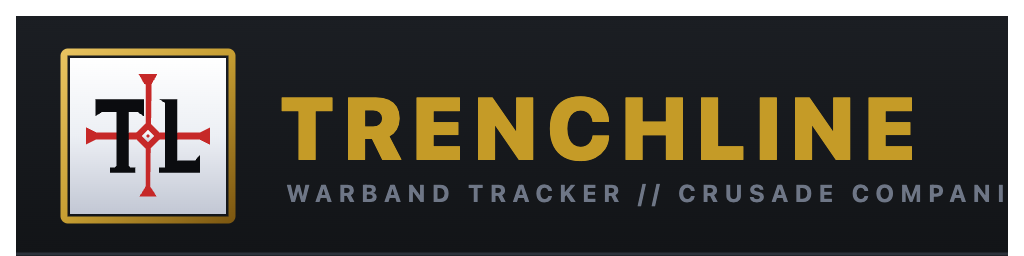
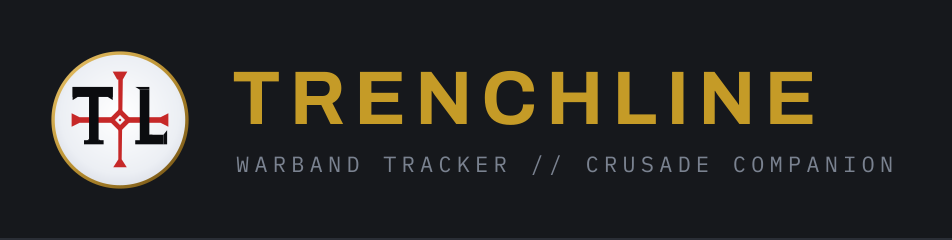
Redraw the brand lockup flat, and stop keeping two copies of the mark
The delivered banner was drawn with a burnished-gold rim gradient, a
steel-plate gradient behind the mark, `rx="2"` corners and a system-sans
900 wordmark. All four are things this app removes — `globals.css` strips
every radius and shadow, the design has one border weight and no simulated
depth, and the wordmark face is Archivo everywhere else. As a raster it
rendered unchanged, which is how it survived this long. The designer
flagged it as wanting a redraw before it appeared anywhere else; it had
just become the README's hero image, so it had.

It also drew its own copy of the mark, which is how one of two copies
drifts. `scripts/build-brand-banner.mjs` inlines `public/brand/icon.svg` —
the same single source `icons:build` uses — prefixing its ids so two
`<defs>` in one document cannot silently shadow each other, and dropping
the full-bleed `canvas` rect the PWA icons need and a banner does not.

The mark keeps its own gradients. The Iron Ledger is about the app's
chrome; the mark is artwork, and flattening someone's artwork to satisfy a
rule about buttons would be reading the rule past its purpose.

476 wide, not 680. The original was a nav-bar mock with a status pip
floating at the right — a green dot reporting nothing — and dropping it
left a third of the image empty. This is a lockup, so it is as wide as the
lockup.

The script FAILS when Archivo is missing rather than rendering. fontconfig
substitutes DejaVu Sans without complaint, so a wordmark in the wrong
[…]

diff --git a/docs/DATA-SOURCES.md b/docs/DATA-SOURCES.md
@@ -591,7 +591,7 @@ the app ships its own.
 | | provenance |
 |---|---|
 | `public/brand/icon.svg` | **Ours** — the app owner's own artwork. The single source of every icon, the favicon and the masthead. |
-| `public/brand/banner.png`, `bannercode.html` | Ours, same origin. The README's hero image; not wired into the app itself. |
+| `public/brand/banner.svg`, `banner.png` | Ours. The brand lockup, built by `npm run brand:banner`, which inlines `icon.svg` rather than repeating its paths — two copies of a logo is how one of them drifts. The README's hero image; not wired into the app itself. |
 | `data-sources/photography/duellists.jpg` | **Ours** — the app owner's own photograph of their own painted models. A source, not an asset: nothing references it and the 2.1 MB original never reaches a visitor. |
 | `public/brand/hero-wide.webp`, `hero-tall.webp` | Derived from that photograph by `node scripts/build-hero-image.mjs` — graded and cropped at build time so no CSS `filter` runs on a hero-sized image on a phone. |
 | `src/components/brand/GoogleMark.tsx` | **Not ours** — Google's mark, as Google draws it, vendored rather than hotlinked because `next.config.mjs` sets `img-src 'self' data: blob:` and loosening a content policy for a logo is a bad trade. Never recoloured, redrawn, or themed. |
@@ -599,6 +599,18 @@ the app ships its own.
 | `public/icons/*`, `public/logo.*` | Derived from `icon.svg` by `npm run icons:build`. |
 | `public/images/world-map.webp` | **Not ours** — still the publisher's. Flagged for future replacement, kept for now. See below. |
 | `public/maps/*` | Scenario deployment maps, drawn in vector by the pipeline from the scenarios' own text. |
+
+`bannercode.html`, the delivered original, is gone with the redraw. It was
+drawn with a burnished-gold rim gradient, a steel-plate gradient, `rx="2"`
+corners and a system-sans 900 wordmark — all four things the Iron Ledger
+removes — and it carried its own hand-drawn copy of the mark. Unlike
+`icon.png`, which is kept as a delivered original nothing reads, it was in
+`public/` and therefore SERVED, so keeping a draft that contradicts the design
+had a cost beyond the confusion. Git has it.
+
+The mark itself keeps its gradients inside the banner. The Iron Ledger is about
+the app's chrome; the mark is artwork, and flattening someone's artwork to
+satisfy a rule about buttons would be reading the rule past its purpose.
 
 A placeholder mark sat here briefly, drawn from primitives while the real
 artwork was being made; it is gone. Until that change the masthead and every

diff --git a/docs/DESIGN.md b/docs/DESIGN.md
@@ -159,4 +159,9 @@ pipeline, the validation engine, the store, or what any button does.
 - `src/app/globals.css` — the token layer, with the reasoning inline.
 - `src/components/landing/Landing.tsx` — the front door, and why it is ordered
   the way it is rather than in nav order.
+- `scripts/build-brand-banner.mjs` — the lockup, drawn to these rules: no
+  gradient on the ground, no plate behind the mark, no rim frame, no radius, no
+  shadow, one hairline at one weight, and Archivo for the wordmark. It fails
+  rather than substituting a face, because fontconfig will quietly hand back
+  DejaVu and a wordmark in the wrong typeface renders without error.
 - `src/components/ui/ViewMasthead.tsx` — the shared masthead.
